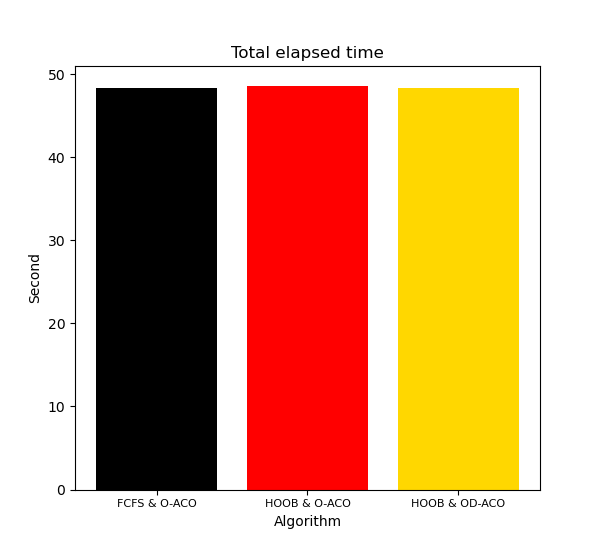
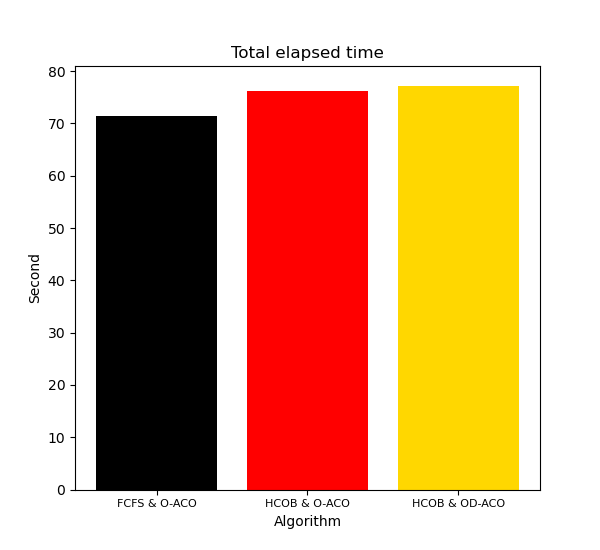
pix bug add order batch

diff --git a/Dynamic/result_view.py b/Dynamic/result_view.py
@@ -58,8 +58,8 @@ class result_sim_view(QWidget):
         self.process_tsp_solver.reset()
         self.process_robot_mover.reset()
         self.timer.start(100)
-
         self.robot_mover_data["the_end"] = True
+
 
 
     def redo_check(self):
@@ -70,13 +70,14 @@ class result_sim_view(QWidget):
                                           self.robot_mover_data["full_algorithm_count"],
                                           self.robot_mover_data["completion_time"],
                                           self.robot_mover_data["robot_step"]])
-                self.process_tsp_solver ="HCOB"
+                self.process_tsp_solver.using_order_batch ="HCOB"
             elif self.sim_count==2:
                 self.pb_getResult.setValue(66)
                 self.saved_result.append([self.robot_mover_data["full_algorithm_time"],
                                           self.robot_mover_data["full_algorithm_count"],
                                           self.robot_mover_data["completion_time"],
                                           self.robot_mover_data["robot_step"]])
+            self.robot_mover_data["the_end"] = True
             self.run()
 
 
@@ -98,21 +99,15 @@ class result_sim_view(QWidget):
     def run(self):
 
         self.process_order_maker.reset()
-        print("hi")
         self.process_tsp_solver.reset()
-        print("hi")
         self.process_robot_mover.reset()
-        print("hi")
         self.process_robot_mover.initialize_robot(self.robot_mover_data, self.gui_data)
-        print("hi")
         self.process_order_maker.run(self.order_worker_data)
-        print("hi")
         # 초기화된 robot_mover_data를 이용합니다.
         self.process_tsp_solver.run(self.order_worker_data,
                                     self.tsp_solver_data,
                                     self.robot_mover_data)
         self.process_robot_mover.run(self.gui_data)
-        print("hi")
 
         self.gui_simulation = online_simulator()
 
@@ -180,7 +175,7 @@ class result_sim_view(QWidget):
                                           self.robot_mover_data["completion_time"],
                                           self.robot_mover_data["robot_step"]])
         '''
-        algorithm_name = ['FCFS & O-ACO', "HOOB & O-ACO", "HOOB & OD-ACO"]
+        algorithm_name = ['FCFS & O-ACO', "HCOB & O-ACO", "HCOB & OD-ACO"]
         algorithm_color = ['black', 'red', 'gold']
         fig = plt.figure(figsize=(6, 5.5))
         plt.title("Average Algorithm time", fontsize=12)
@@ -226,7 +221,6 @@ class result_sim_view(QWidget):
         self.qPixmapVar = QPixmap()
         self.qPixmapVar.load("result/평균 알고리즘 시간.png")
         self.qPixmapVar = self.qPixmapVar.scaled(self.lb_mean_time.width(), self.lb_mean_time.height(), Qt.KeepAspectRatio)
-        # self.qPixmapVar = self.qPixmapVar.scaled(self.label_tet.width(), self.label_tet.height())
         self.lb_mean_time.setPixmap(self.qPixmapVar)
 
         self.qPixmapVar = QPixmap()
@@ -237,5 +231,4 @@ class result_sim_view(QWidget):
         self.qPixmapVar = QPixmap()
         self.qPixmapVar.load("result/이동거리 박스플롯.png")
         self.qPixmapVar = self.qPixmapVar.scaled(self.lb_move_time.width(), self.lb_move_time.height(), Qt.KeepAspectRatio)
-        # self.qPixmapVar = self.qPixmapVar.scaled(self.label_atd.width(), self.label_atd.height())
         self.lb_move_time.setPixmap(self.qPixmapVar)

diff --git a/Dynamic/Online_orderbatch.py b/Dynamic/Online_orderbatch.py
@@ -35,9 +35,9 @@ def online_order_batch_FIFO(readonly_orders, init_batch_size, max_batch_size, ro
                 assigned_flag[robot_index] = True
         elif len(readonly_orders)-start_order < init_batch_size:
             # print("현재 배치의 오더 배치들",solved_batches)
-            print("이번 step에 풀린 index : ", solved_orders_index)
-            print("현재까지 풀린 배치들 : ", solved_batches)
-            print("배치가 수정된 로봇들 : ", changed_robot_index)
+            # print("이번 step에 풀린 index : ", solved_orders_index)
+            # print("현재까지 풀린 배치들 : ", solved_batches)
+            # print("배치가 수정된 로봇들 : ", changed_robot_index)
             return solved_orders_index,solved_batches,changed_robot_index
         #큰일날 수 있는부분..
         elif len(robot_batch) ==0:
@@ -92,9 +92,9 @@ def online_order_batch_FIFO(readonly_orders, init_batch_size, max_batch_size, ro
     DEBUG_log(solved_batches,"VERY_DETAIL")
     DEBUG_log("바뀐로봇들 일부", "DETAIL")
     # DEBUG_log(changed_robot_index[0:1],"DETAIL")
-    print("이번 step에 풀린 index : ", solved_orders_index)
-    print("현재까지 풀린 배치들 : ", solved_batches)
-    print("배치가 수정된 로봇들 : ", changed_robot_index)
+    # print("이번 step에 풀린 index : ", solved_orders_index)
+    # print("현재까지 풀린 배치들 : ", solved_batches)
+    # print("배치가 수정된 로봇들 : ", changed_robot_index)
     return solved_orders_index,solved_batches,changed_robot_index
 
 def online_order_batch_HCOB(readonly_orders, init_batch_size, max_batch_size, robot_data, node_point_y_x):
@@ -229,7 +229,7 @@ def online_order_batch_HCOB(readonly_orders, init_batch_size, max_batch_size, ro
                         Do_save_in_Queue()# 아직 애매한 배치면 저장해버린다.
                         # print("16. 대기중인 로봇에 넣으려고 했는데, 너무 안어울려")
                 else:
-                    print("17. 전부 일하는중이야")
+                    # print("17. 전부 일하는중이야")
                     Do_save_in_Queue()# 아직 애매한 배치면 저장하지 않는다.
         else:#새로운 주문이 없다면
             # print("18. 새로운 주문이 없어")

diff --git a/Dynamic/process_tsp_solver.py b/Dynamic/process_tsp_solver.py
@@ -51,14 +51,12 @@ class procees_tsp_solver:
 
     def reset(self):
         #while 탈출 및 sub process를 죽입니다.
-        print("나냐")
         if self.sub_process ==None:
             return
         self.solver_data["reset"] = True
-        print("hello")
         if self.sub_process.is_alive():
             self.sub_process.kill()
-            print("i killed")
+
 
     def process(self,order_data, solver_data,robot_data):
         self.initalize(solver_data)#각 노드의 좌표를 변형합니다.
@@ -77,7 +75,7 @@ class procees_tsp_solver:
             self.delete_orders(order_data, solved_orders_index)
             self.change_batch_and_solve_tsp(solved_batches,changed_robot_index,robot_data)
         #-------------------추가된 부분---------------------
-            time.sleep(0.5)
+            time.sleep(0.1)
         self.save_result(robot_data)
 
 
@@ -217,7 +215,10 @@ class procees_tsp_solver:
         temp_list = []
         for robot in robot_data["robot"]:
             temp_list.append(robot.step)
-        robot_data["robot_step"] = temp_list
+        robot_data["robot_step"] = copy.deepcopy(temp_list)
+        self.algorithm_time =0
+        self.algorithm_count =0
+        self.work_time = 0
         #이제 하나 끝났습니다.
         robot_data["the_end"] = True
 

diff --git a/main.py b/main.py
@@ -201,15 +201,15 @@ if __name__ == "__main__":
         sim_data['Computation_time'] = [0. for _ in range(len(sim_data['solver_set']))]
         sim_data["force_die"] = False
         sim_data["doing_order"] =0
-        order_maker = Process(target=warehouse_order_maker,args=(order_data,1))
-        warehouse_tsp_solver = Process(target=warehouse_tsp_solver, args=(sim_data,order_data))
-        warehouse_fast_solver = Process(target=process_Fast_sim, args=(sim_data, order_data))
+        # order_maker = Process(target=warehouse_order_maker,args=(order_data,1))
+        # warehouse_tsp_solver = Process(target=warehouse_tsp_solver, args=(sim_data,order_data))
+        # warehouse_fast_solver = Process(target=process_Fast_sim, args=(sim_data, order_data))
         # order_maker.start()
         # warehouse_tsp_solver.start()
         # warehouse_fast_solver.start()
         #GUI를 담당하는 프로세스 입니다.
         myWindow = WindowClass()
-        myWindow.getProcess(order_maker,warehouse_fast_solver,warehouse_tsp_solver)
+        # myWindow.getProcess(order_maker,warehouse_fast_solver,warehouse_tsp_solver)
         myWindow.set_data(order_data,sim_data)
         myWindow.show()
         sys.exit(app.exec_())

diff --git a/Dynamic/HCOB.py b/Dynamic/HCOB.py
@@ -158,9 +158,15 @@ def Is_maded_good_batch_in_Queue(buffer_orders,node_point_y_x,init_batch_size):
            item_min_distance.append(distance)
         item_dis = np.array(item_min_distance)
         same_batch_ind = np.argsort(item_dis).tolist()[:init_batch_size-1]
-        # print("마지막 거리", item_dis[same_batch_ind[-1]]/len(seed_order_ind))
-        if item_dis[same_batch_ind[-1]]/len(seed_order_ind) >distance_bound:
+        if len(same_batch_ind) ==0:
             continue
+        # print("마지막 거리", item_dis[same_batch_ind[-1]]/len(seed_order_ind))
+        try:
+            if item_dis[same_batch_ind[-1]]/len(seed_order_ind) >distance_bound:
+                continue
+        except IndexError:
+            print(same_batch_ind,"문제")
+            print(item_dis,"문제")
         else :
             #현재 seed order(i)에 대해서, same_batch_ind에 속하는 order를 찾아서 하나로 묶는다.
             seed_order_last = i
